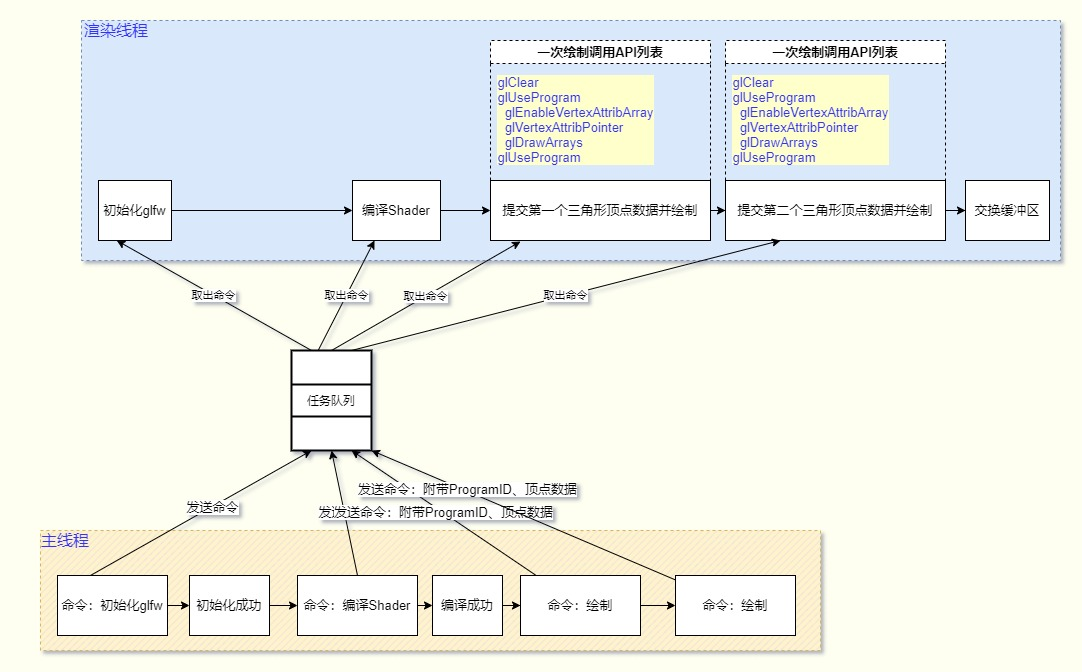
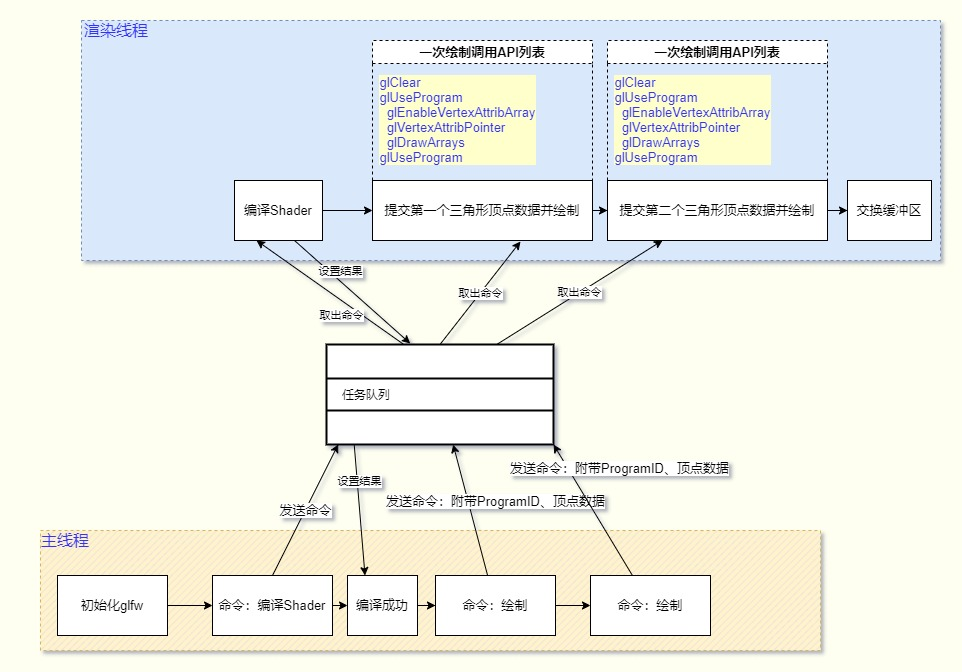
多线程渲染任务队列

diff --git a/pages/21. 多线程渲染/21.2 基于任务队列的多线程渲染.md b/pages/21. 多线程渲染/21.2 基于任务队列的多线程渲染.md
@@ -20,7 +20,7 @@
 
     这是一个阻塞式任务，你(主线程)必须等老婆(渲染线程)执行任务(拿纸)，返回结果(给你纸)。
 
-    就如下面图中的初始化glfw、编译Shader命令。
+    就如下面图中的`编译Shader`命令。
 
     ![](../../imgs/multithread_render/multithread_render/multithread_render.jpg)
 
@@ -46,9 +46,7 @@
 
     主线程发出渲染命令后，也不会等渲染结果，而是转身就去执行其他逻辑。
 
-    就如下面图中的绘制命令。
-
-    ![](../../imgs/multithread_render/multithread_render/multithread_render.jpg)
+    就如案例一图中的`绘制`命令。
 
 * 案例三
     
@@ -60,7 +58,7 @@
     
     你需要一个任务队列来保存这些任务，然后从任务队列里面取任务来做。
 
-    就如同下图，初始化glfw和编译shader是阻塞性任务，这两个完成之后才能去做渲染这个非阻塞任务。
+    就如同下图，`编译shader`是阻塞性任务，完成之后才能去做`绘制`这个非阻塞任务。
 
     ![](../../imgs/multithread_render/render_task_queue/render_task_queue.jpg)
 
